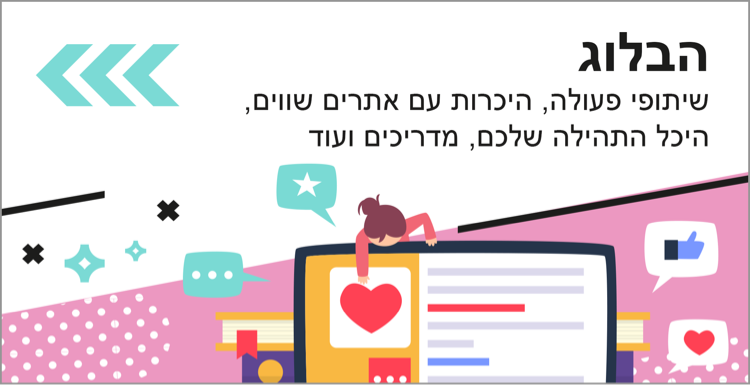
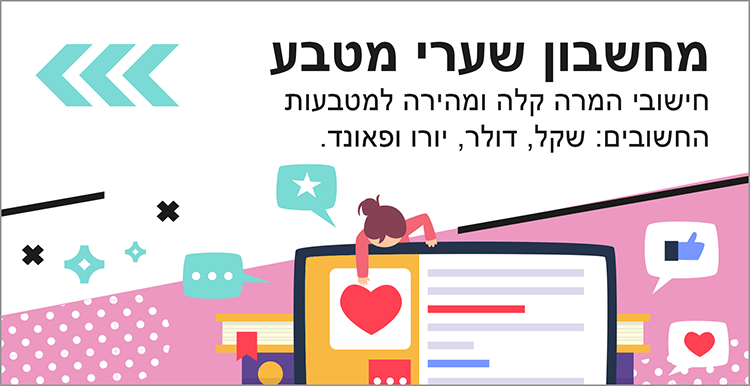
Update the Assets and the onboarding

diff --git a/lib/onboarding/onboarding_page2.dart b/lib/onboarding/onboarding_page2.dart
@@ -23,13 +23,13 @@ class Page2 extends StatelessWidget {
               padding: EdgeInsets.fromLTRB(16, 16, 16, 8),
               child: Image.asset(Assets.welcome2BOX1Up)),
           new FlatButton(
-              onPressed: () { Navigator.pop(context, "main"); },
-              padding: EdgeInsets.fromLTRB(16, 16, 16, 8),
-              child: Image.asset(Assets.welcome2BOX2Middle)),
-          new FlatButton(
               onPressed: () { Navigator.pop(context, "calculator"); },
               padding: EdgeInsets.fromLTRB(16, 16, 16, 8),
-              child: Image.asset(Assets.welcome2BOX3Down)),
+              child: Image.asset(Assets.welcome2BOX2Middle)),
+          // new FlatButton(
+          //     onPressed: () { Navigator.pop(context, "calculator"); },
+          //     padding: EdgeInsets.fromLTRB(16, 16, 16, 8),
+          //     child: Image.asset(Assets.welcome2BOX3Down)),
         ],
       );
   }
